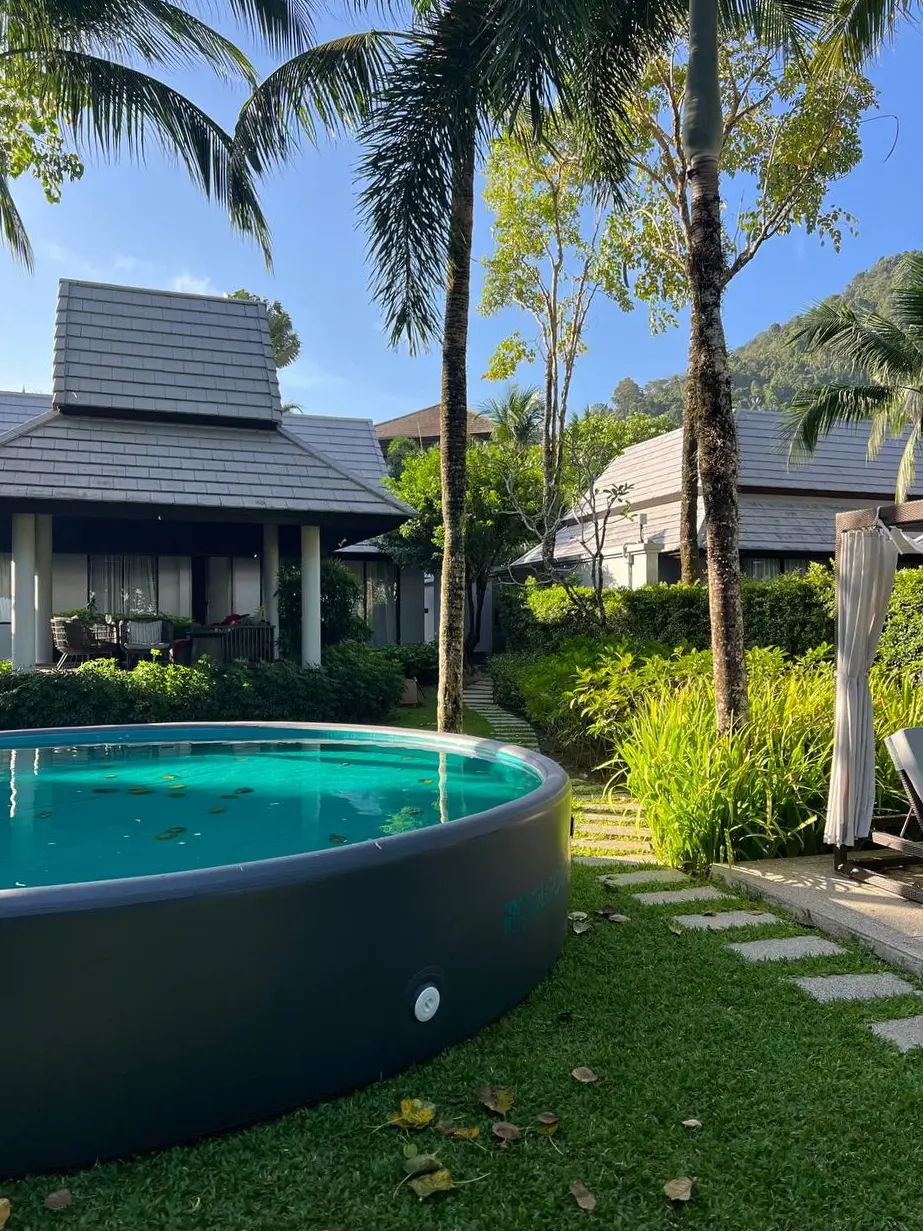
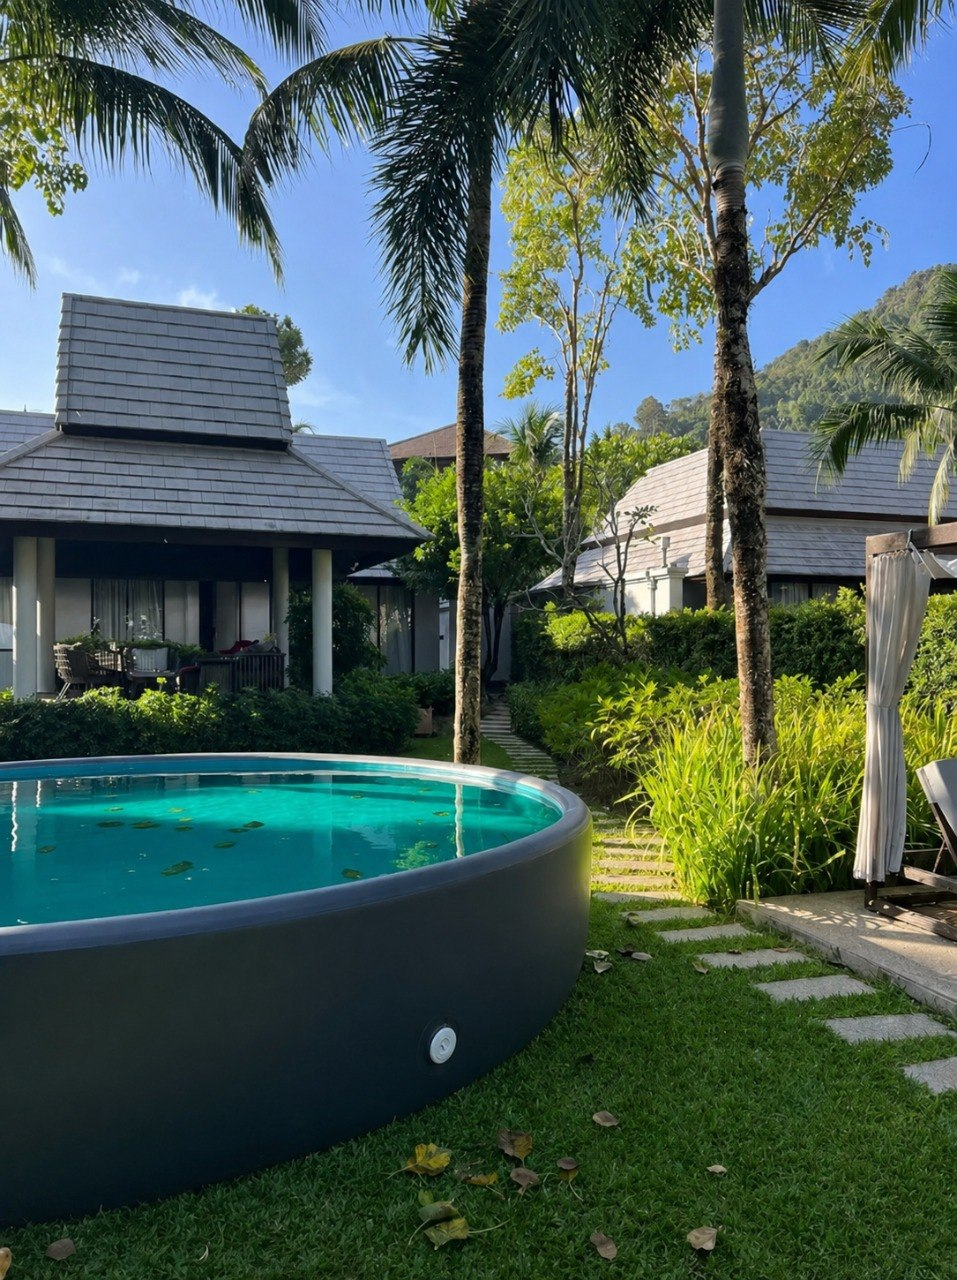
Texts update

diff --git a/index.html b/index.html
@@ -86,7 +86,7 @@
         body.menu-open { overflow: hidden; touch-action: none; }
 
         /* --- TYPOGRAPHY & LAYOUT --- */
-        h1 { font-size: clamp(2.5rem, 7vw, 7rem); font-weight: 600; letter-spacing: -0.05em; line-height: 0.9; text-transform: uppercase; }
+        h1 { font-size: clamp(2.5rem, 7vw, 7rem); font-weight: 600; letter-spacing: -0.05em; line-height: 1; text-transform: uppercase; }
         h2 { font-size: clamp(1.8rem, 4vw, 3.5rem); font-weight: 500; letter-spacing: -0.03em; line-height: 1.1; margin-bottom: 60px; }
         .tech-font { font-family: 'Space Grotesk', sans-serif; }
         
@@ -462,9 +462,9 @@
     <section class="hero">
         <img src="assets/hero.webp" alt="Архитектурные бассейны THE SLATE" class="hero-img" id="hero-img" fetchpriority="high" decoding="sync">
         <div class="hero-content fade-up">
-            <h1>Water<br>Architecture.</h1>
+            <h1>Новое поколение<br>бассейнов.</h1>
             <p style="margin-top: 24px; font-size: clamp(1rem, 2vw, 1.2rem); max-width: 530px; opacity: 0.9; line-height: 1.5;">
-                Премиальные архитектурные каркасные системы. Эстетика стационарного водоема и безупречная интеграция в ваш экстерьер.
+                Новое поколение бассейнов премиум класса, идеальная геометрия, экологичные материалы. Безупречная интеграция в ваш экстерьер
             </p>
             
             <div class="hero-actions tech-font">
@@ -494,7 +494,7 @@
                 </div>
                 <h2>Безупречная форма.<br>Быстрая установка.</h2>
                 <p style="font-size: clamp(1rem, 2vw, 1.125rem); color: var(--text-gray); line-height: 1.6;">
-                    Это инженерно-совершенные каркасные модули. Они устанавливаются быстро и идеально интегрируются в любой ландшафт, создавая иллюзию бескрайнего океана прямо на вашем участке.
+                    Прочнейшее бескаркасное инженерное решение. Устанавливается за считаные минуты, интегрируются в любой ландшафт, создавая иллюзию бескрайнего океана прямо у вас на участке.
                 </p>
             </div>
         </div>
@@ -508,12 +508,12 @@
                 <div class="accordion-item fade-up active" tabindex="0" role="button" aria-expanded="true">
                     <div class="accordion-header">
                         <span class="feat-num tech-font">01</span>
-                        <h3 class="feat-title">Архитектурный каркас</h3>
+                        <h3 class="feat-title">Структурная прочность</h3>
                         <div class="acc-icon">+</div>
                     </div>
                     <div class="accordion-content-wrapper">
                         <div class="accordion-content">
-                            <p>Сверхпрочный стальной каркас обеспечивает невероятную устойчивость к давлению воды и перепадам температур. Интегрированные ребра жесткости делают чашу абсолютно невосприимчивой к деформациям.</p>
+                            <p>Сверхпрочные материалы обеспечивают невероятную устойчивость. Выдерживает гигантские нагрузки и экстремальные перепады температур.</p>
                         </div>
                     </div>
                 </div>
@@ -534,12 +534,13 @@
                 <div class="accordion-item fade-up" tabindex="0" role="button" aria-expanded="false">
                     <div class="accordion-header">
                         <span class="feat-num tech-font">03</span>
-                        <h3 class="feat-title">Умная модульность</h3>
+                        <h3 class="feat-title">Гибкость интеграции</h3>
                         <div class="acc-icon">+</div>
                     </div>
                     <div class="accordion-content-wrapper">
                         <div class="accordion-content">
-                            <p>Инновационная конструкция позволяет легко интегрировать систему в подиум или террасу. Каркас работает по принципу надежной базы, обеспечивая безупречный внешний вид стационарного водоема.</p>
+                            <p>Инновационная конструкция позволяет легко интегрировать систему в землю, подиум или террасу. Бассейн работает по принципу прочнейшей базы, обеспечивая
+безупречный внешний вид, прочность и практичность.</p>
                         </div>
                     </div>
                 </div>
@@ -550,7 +551,7 @@
     <!-- BENTO GALLERY -->
     <section class="gallery" id="gallery">
         <div class="container">
-            <h2 class="fade-up">Эстетика интеграции</h2>
+            <h2 class="fade-up">Авторский цвет</h2>
             <div class="gal-grid">
                 <div class="gal-item fade-up"><img src="assets/photo.webp" alt="Архитектурный каркасный бассейн, интегрированный в ландшафт" loading="lazy"></div>
                 <div class="gal-item fade-up" style="transition-delay: 0.1s;"><img src="assets/photo2.webp" alt="Интеграция бассейна THE SLATE с деревянной террасой" loading="lazy"></div>
@@ -565,7 +566,7 @@
     <!-- CATALOG -->
     <div class="catalog-wrapper" id="catalog">
         <div class="container">
-            <h2 class="fade-up">Модельный ряд</h2>
+            <h2 class="fade-up">Каталог</h2>
             <div class="cards-container">
                 
                 <!-- Модель 1 -->
@@ -678,7 +679,7 @@
         <div class="footer-grid fade-up">
             <div class="footer-brand">
                 <h2 class="logo">THE SLATE™</h2>
-                <p>Проектирование и монтаж премиальных архитектурных каркасных систем. Идеальная интеграция в любой ландшафт.</p>
+                <p>Новое поколение бассейнов премиум класса, идеальная геометрия, экологичные материалы. Безупречная интеграция в ваш экстерьер</p>
             </div>
             
             <div class="footer-col tech-font">
@@ -686,8 +687,8 @@
                 <div class="footer-col-links">
                     <a href="#philosophy">Философия бренда</a>
                     <a href="#features">Технологии</a>
-                    <a href="#gallery">Галерея проектов</a>
-                    <a href="#catalog">Модельный ряд</a>
+                    <a href="#gallery">Галерея</a>
+                    <a href="#catalog">Каталог</a>
                 </div>
             </div>
 
@@ -702,7 +703,7 @@
         </div>
 
         <div class="footer-bottom tech-font fade-up">
-            <div class="copyright">© 2024 THE SLATE™. Архитектура каркасных систем.</div>
+            <div class="copyright">© 2026 THE SLATE™.</div>
             <div class="policy"><a href="#" style="color: inherit; text-decoration: none;">Политика конфиденциальности</a></div>
         </div>
     </footer>